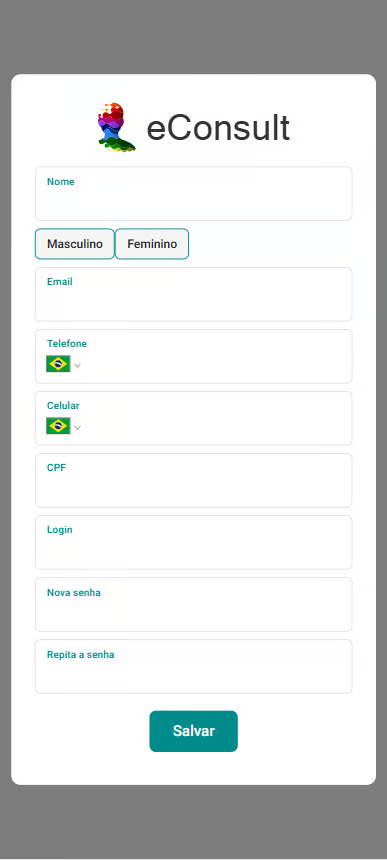
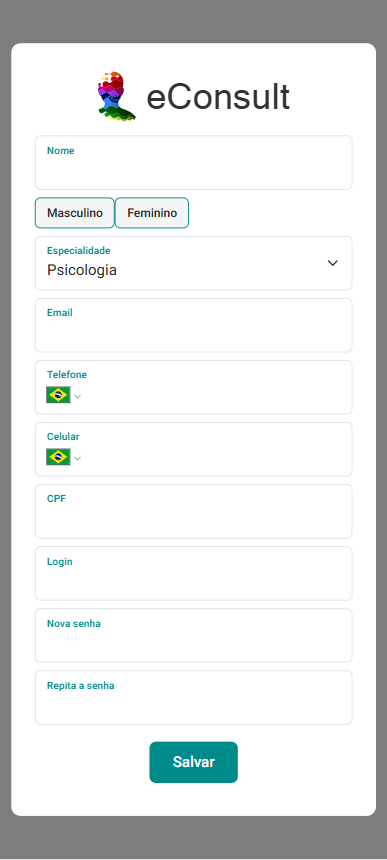
nilson

diff --git a/src/css/custom.css b/src/css/custom.css
@@ -70,7 +70,7 @@ h4 {
   vertical-align: middle;
   display: inline-block;
   margin-right: 4px;
-  border: 1px solid silver;
+  box-shadow: 1px 1px 7px rgba(0, 0, 0, 0.07);
   border-radius: 3px;
 }
 

diff --git a/docs/02-iniciando/00_nova-conta.md b/docs/02-iniciando/00_nova-conta.md
@@ -15,15 +15,19 @@ Criar uma conta no eConsult é um processo simples e essencial para acessar toda
 
     ![Tela: Criação de nova conta](../../static/img/prints/00_nova-conta-002.png)
 
-4. Insira as informações solicitadas, como: nome completo, sexo, e-mail, telefone, celular, CPF e crie uma senha segura. Certifique-se de que todos os dados estão corretos e clique em Salvar.
+4. Insira as informações solicitadas, como: nome completo, sexo, especialidade, e-mail, telefone, celular, CPF e crie uma senha segura. Certifique-se de que todos os dados estão corretos e clique em Salvar.
 
 5. Após salvar, o sistema exibirá uma tela solicitando um código de acesso. Você receberá esse código por e-mail.
 
     ![Tela: Código de acesso](../../static/img/prints/00_nova-conta-003.png)
 
-6. Preencha o campo código de acesso com o código enviado para o seu e-mail.
+6. Preencha o campo "Código de acesso" com o código enviado para o seu e-mail.
 
-7. Novamente na página de login, insira seu e-mail e senha, e clique em “Entrar” para acessar o eConsult.
+7. Clique em “Entrar” para acessar o eConsult.
+
+:::tip
+    Se você não tiver mais o e-mail com o código, basta clicar no botão "Reenviar código" e um novo código será enviado automaticamente para o seu e-mail.
+:::
 
 Criar uma nova conta é o primeiro passo para aproveitar todas as vantagens e funcionalidades oferecidas pelo eConsult. Siga os passos acima e comece a explorar!
 
